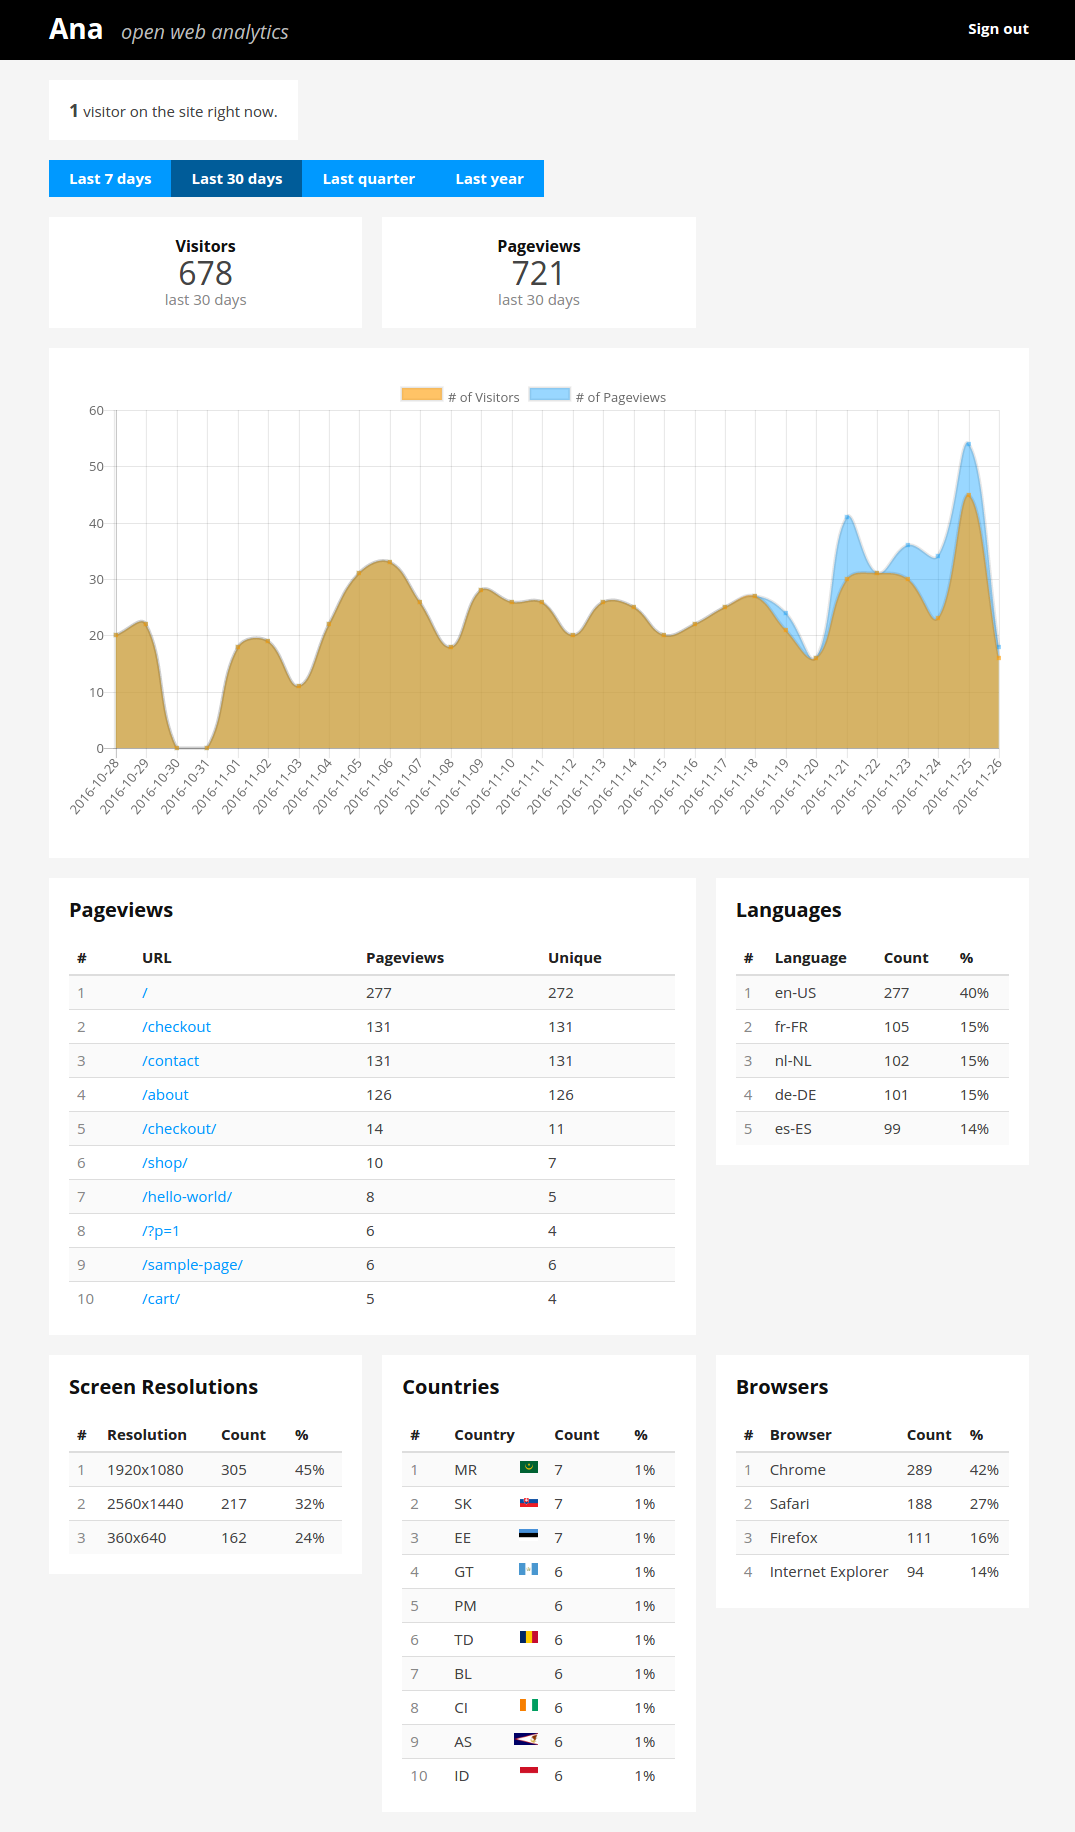
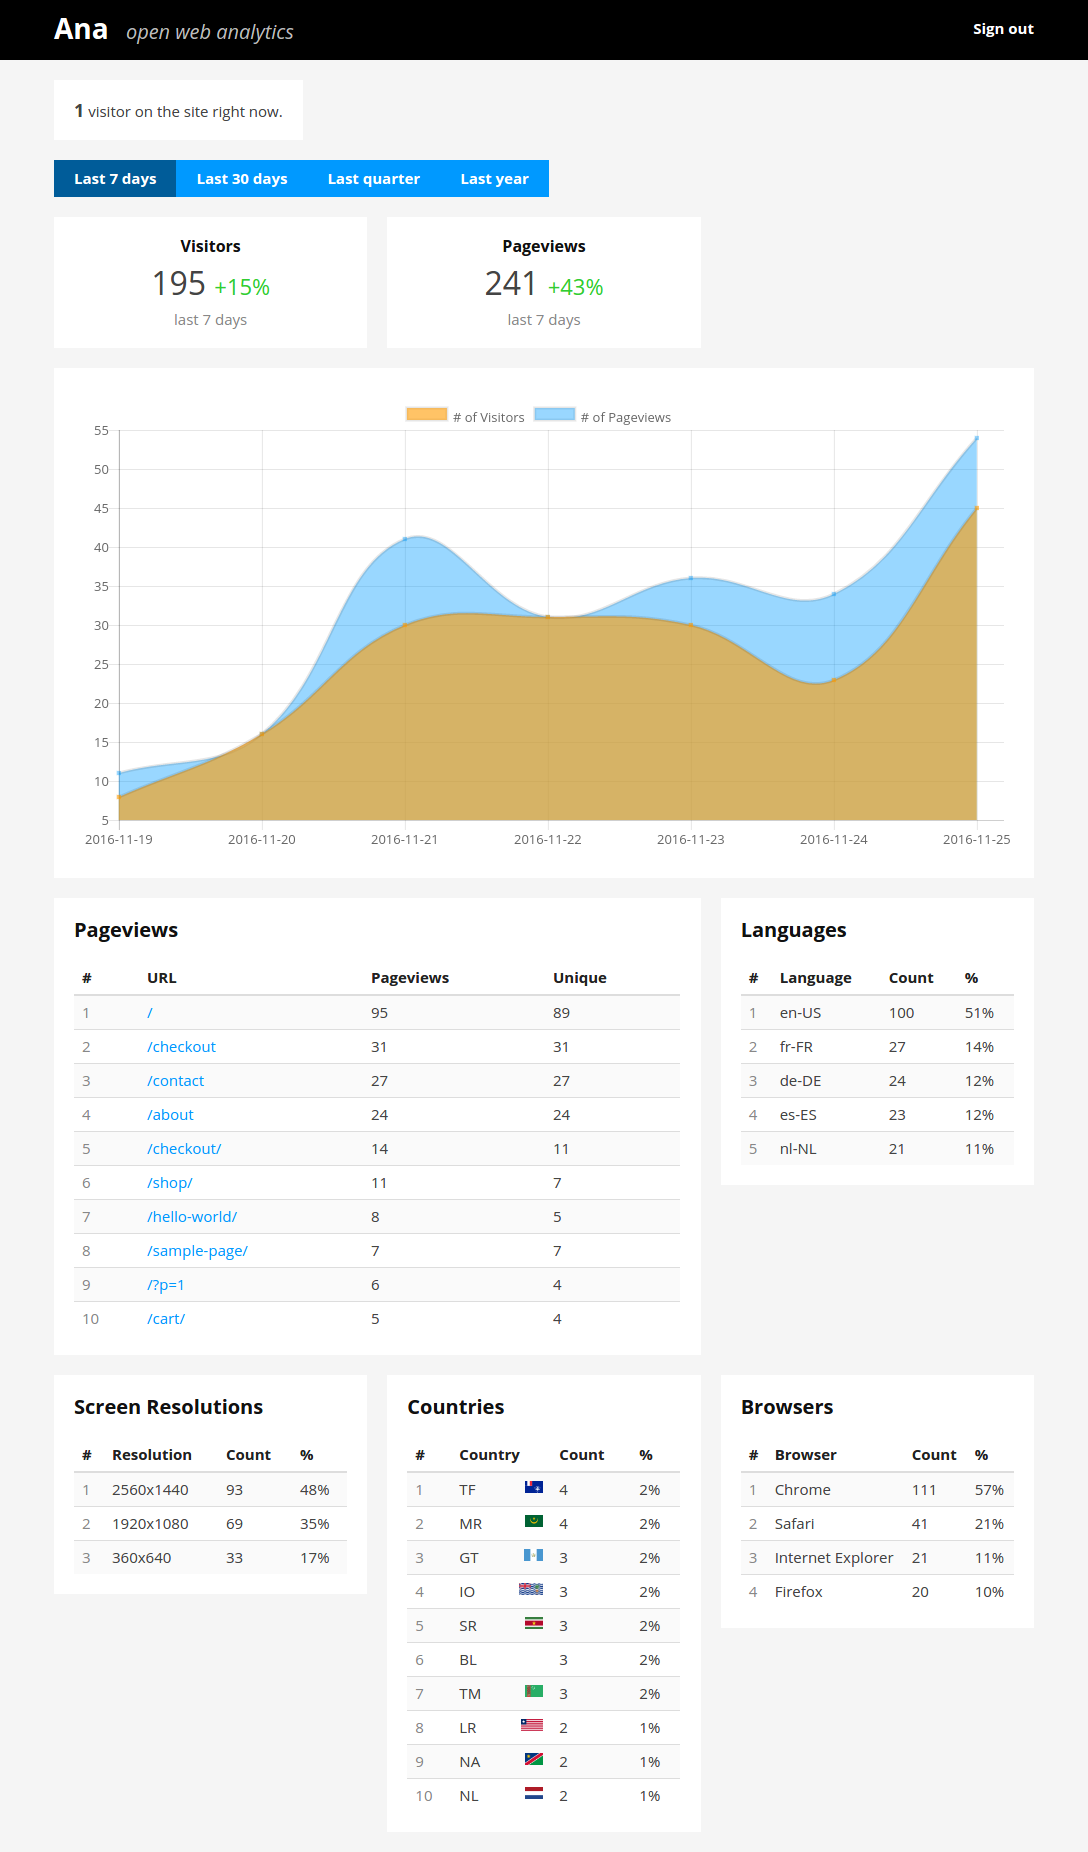
compare period totals to previous period and show % diff

diff --git a/assets/js/components/CountWidget.js b/assets/js/components/CountWidget.js
@@ -1,13 +1,15 @@
 'use strict';
 
 import { h, render, Component } from 'preact';
+const dayInSeconds = 60 * 60 * 24;
 
 class CountWidget extends Component {
   constructor(props) {
     super(props)
 
     this.state = {
-      count: 0
+      count: 0,
+      previousCount: 0
     }
 
     this.fetchData = this.fetchData.bind(this);
@@ -21,7 +23,10 @@ class CountWidget extends Component {
   }
 
   fetchData(period) {
-    return fetch('/api/' + this.props.endpoint + '/count?period=' + period, {
+    const before = Math.round((+new Date() ) / 1000);
+    const after = before - ( period * dayInSeconds );
+
+    fetch(`/api/${this.props.endpoint}/count?before=${before}&after=${after}`, {
       credentials: 'include'
     }).then((r) => {
         if( r.ok ) { return r.json(); }
@@ -29,14 +34,36 @@ class CountWidget extends Component {
      }).then((data) => {
         this.setState({ count: data })
     });
+
+    // query previous period
+    const previousBefore = after;
+    const previousAfter = previousBefore - ( period * dayInSeconds );
+    fetch(`/api/${this.props.endpoint}/count?before=${previousBefore}&after=${previousAfter}`, {
+      credentials: 'include'
+    }).then((r) => {
+        if( r.ok ) { return r.json(); }
+        throw new Error();
+     }).then((data) => {
+        this.setState({ previousCount: data })
+    });
+  }
+
+  renderPercentage() {
+    if( ! this.state.previousCount ) {
+      return '';
+    }
+
+    const percentage = Math.round(( this.state.count / this.state.previousCount * 100 - 100))
+    return (
+      <small class={percentage > 0 ? 'positive' : 'negative'}>{percentage}%</small>
+    )
   }
 
   render() {
     return (
-
       <div class="block center-text">
-        <h4 class="no-margin">{this.props.title}</h4>
-        <div class="big">{this.state.count}</div>
+        <h4 class="">{this.props.title}</h4>
+        <div class="big tiny-margin">{this.state.count} {this.renderPercentage()}</div>
         <div class="muted">last {this.props.period} days</div>
       </div>
     )

diff --git a/assets/sass/_util.scss b/assets/sass/_util.scss
@@ -16,6 +16,11 @@
     clear: both;
 }
 
+.tiny-margin{
+  margin-top: 10px;
+  margin-bottom: 10px;
+}
+
 .small-margin {
   margin-top: 20px;
   margin-bottom: 20px;
@@ -44,4 +49,16 @@
 
 .center-text {
   text-align: center;
+}
+
+.positive {
+  color: limegreen;
+
+  &:before {
+    content: "+";
+  }
+}
+
+.negative {
+  color: orangered;
 }

diff --git a/assets/sass/styles.scss b/assets/sass/styles.scss
@@ -101,3 +101,7 @@ h3{
 h4 {
   font-size: 16px;
 }
+
+small {
+  font-size: 70%;
+}

diff --git a/README.md b/README.md
@@ -3,7 +3,7 @@ Ana. Open Source Web Analytics.
 
 This is nowhere near being usable, let alone stable. Treat as a proof of concept.
 
-![Screenshot of the Ana dashboard](https://github.com/dannyvankooten/ana/raw/master/assets/img/screenshot.png?v=4)
+![Screenshot of the Ana dashboard](https://github.com/dannyvankooten/ana/raw/master/assets/img/screenshot.png?v=5)
 
 ## Usage
 

diff --git a/ROADMAP.md b/ROADMAP.md
@@ -5,7 +5,6 @@ This is a general draft document for thoughts and todo's, without any structure 
 
 ### What's cooking?
 
-- Compare period totals to previous period.
 - Allow setting custom limit in table overviews.
 - Allow sorting in table overviews.
 - Choose a OS license & settle on name.
